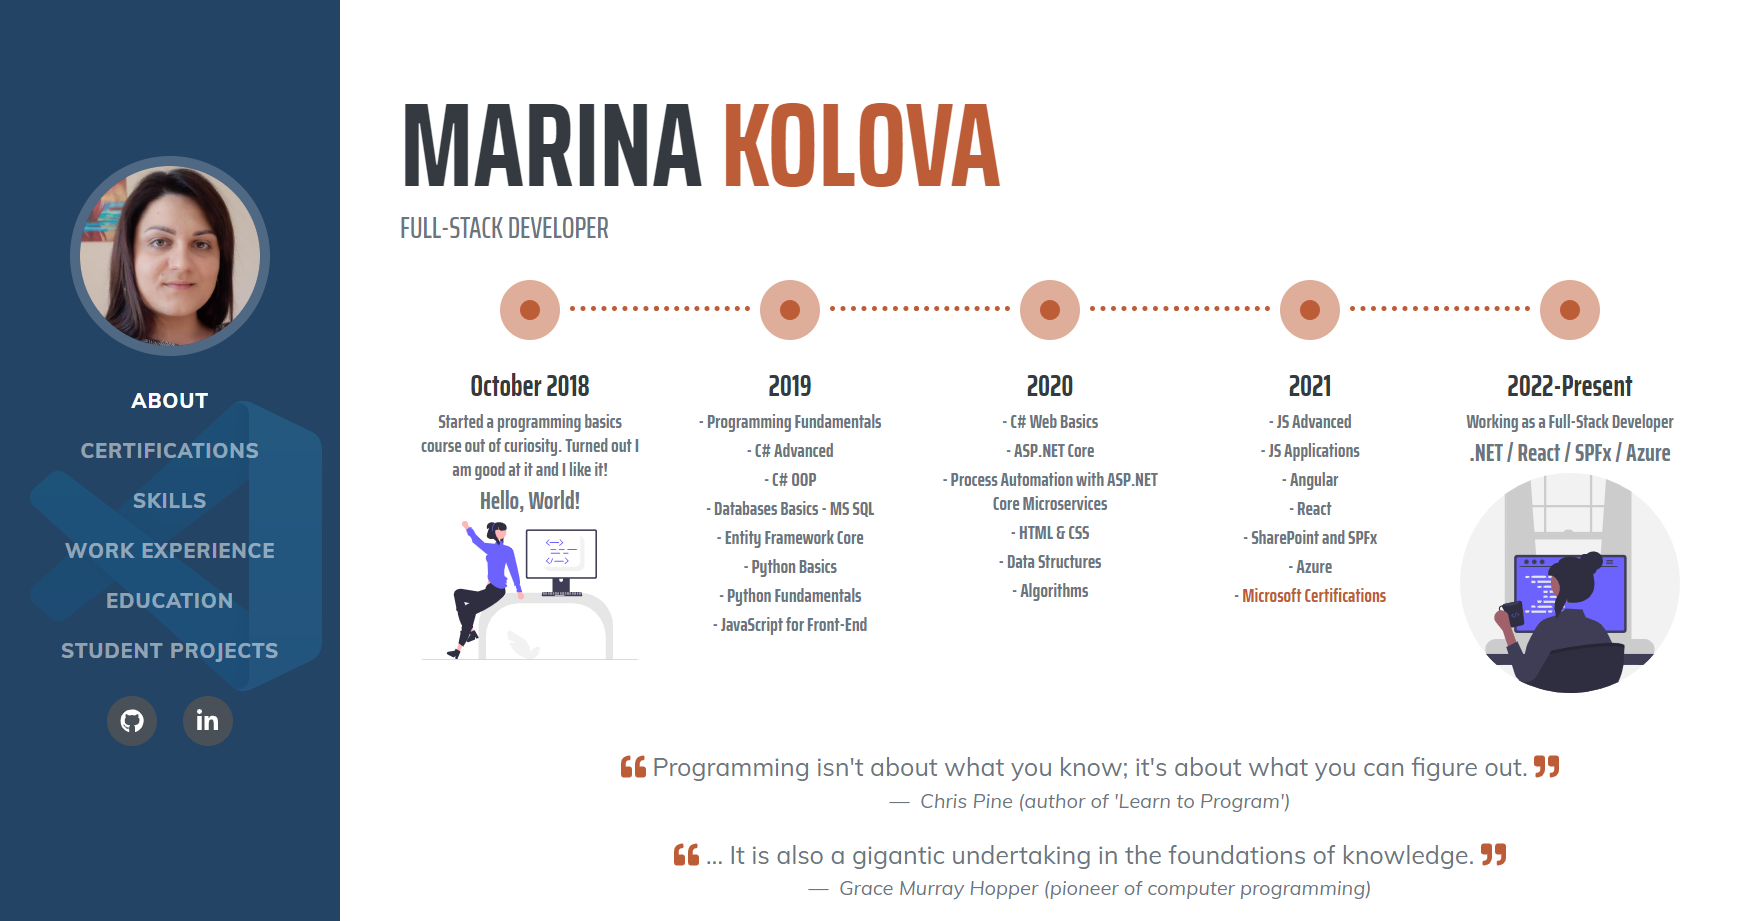
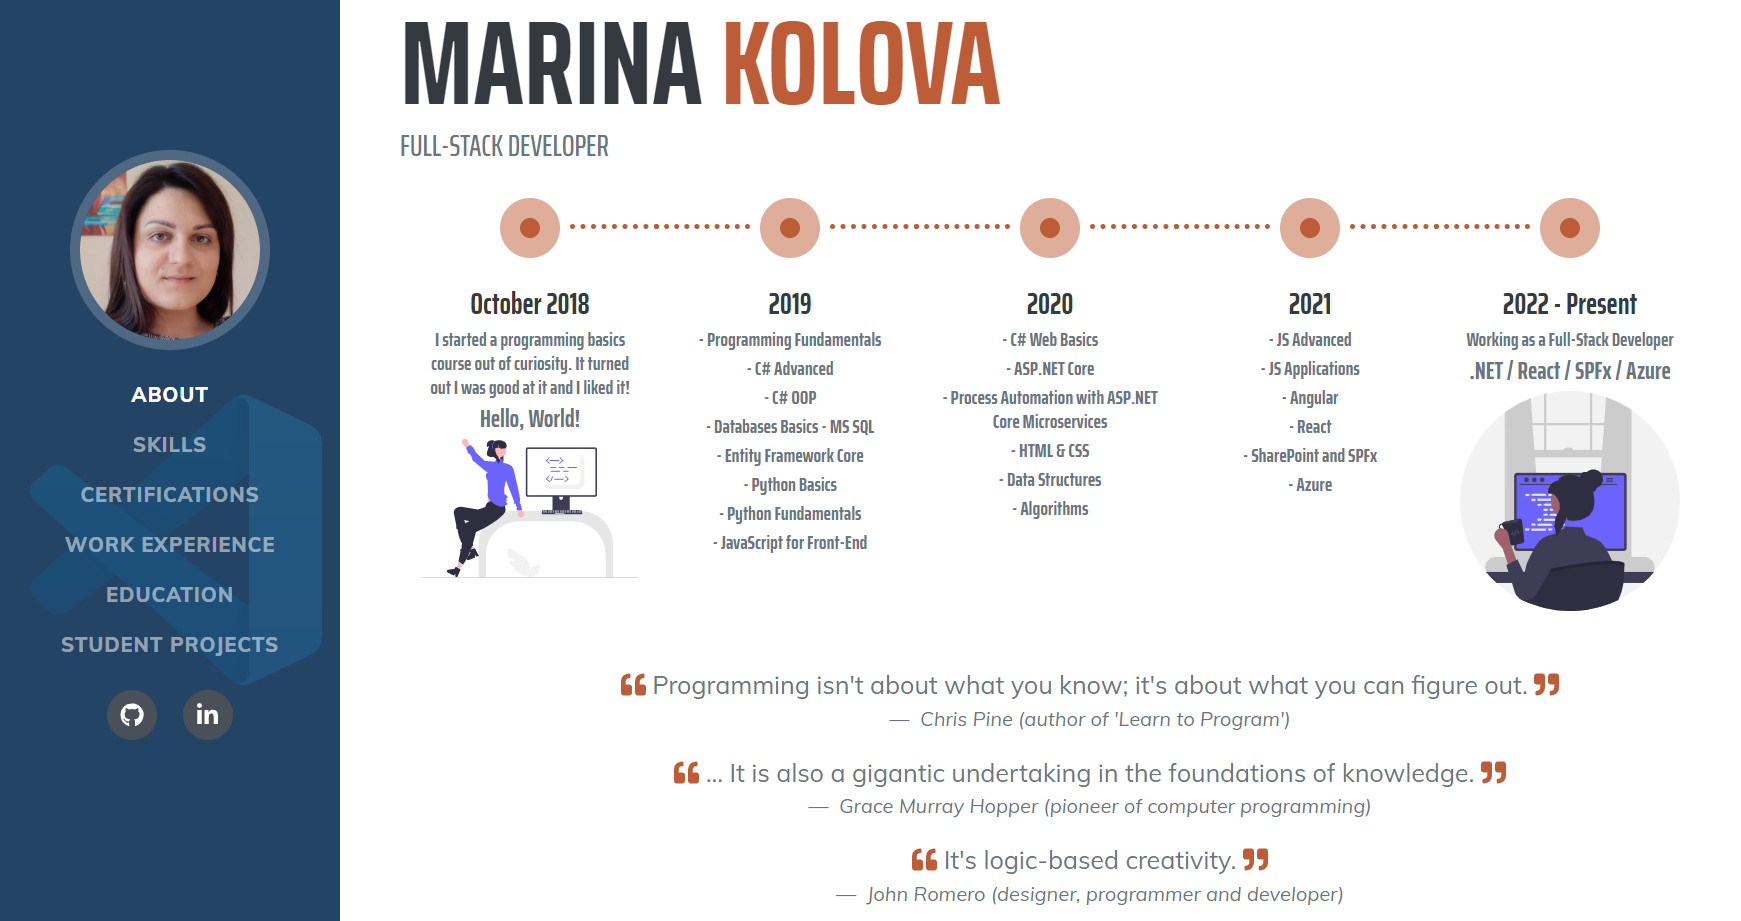
Add AZ-204 certification. Reorder sections.

diff --git a/docs/index.html b/docs/index.html
@@ -49,10 +49,10 @@
                     <a class="nav-link js-scroll-trigger" href="#about">About</a>
                 </li>
                 <li class="nav-item">
-                    <a class="nav-link js-scroll-trigger" href="#certifications">Certifications</a>
+                    <a class="nav-link js-scroll-trigger" href="#skills">Skills</a>
                 </li>
                 <li class="nav-item">
-                    <a class="nav-link js-scroll-trigger" href="#skills">Skills</a>
+                    <a class="nav-link js-scroll-trigger" href="#certifications">Certifications</a>
                 </li>
                 <li class="nav-item">
                     <a class="nav-link js-scroll-trigger" href="#experience">Work Experience</a>
@@ -103,8 +103,8 @@
                                     data-placement="top">
                                     <div class="inner-circle"></div>
                                     <p class="h4 mt-3 mb-1">October 2018</p>
-                                    <p class="h6 text-muted mb-1 mb-lg-1">Started a programming basics course out of
-                                        curiosity. It turned out I was good at it and liked it!</p>
+                                    <p class="h6 text-muted mb-1 mb-lg-1">I started a programming basics course out of
+                                        curiosity. It turned out I was good at it and I liked it!</p>
                                     <p class="h5 text-muted mb-1 mb-lg-1">Hello, World!</p>
                                     <img src="img/undraw_proud_coder_re_exuy.svg" class="card-img mb-1 mb-lg-1"
                                         alt="Hello Programming">
@@ -150,15 +150,13 @@
                                     <p class="h6 text-muted mb-1 mb-lg-1">- React</p>
                                     <p class="h6 text-muted mb-1 mb-lg-1">- SharePoint and SPFx</p>
                                     <p class="h6 text-muted mb-1 mb-lg-1">- Azure</p>
-                                    <p class="h6 text-muted mb-1 mb-lg-1">- <a href="#certifications">Microsoft
-                                        Certifications</a></p>
                                 </div>
                             </div>
                             <div class="timeline-step">
                                 <div class="timeline-content" data-toggle="popover" data-trigger="hover"
                                     data-placement="top">
                                     <div class="inner-circle"></div>
-                                    <p class="h4 mt-3 mb-1">2022-Present</p>
+                                    <p class="h4 mt-3 mb-1">2022 - Present</p>
                                     <p class="h6 text-muted mb-1 mb-lg-1">Working as a Full-Stack Developer</p>
                                     <p class="h5 text-muted mb-1 mb-lg-1">.NET / React / SPFx / Azure</p>
                                     <img src="img/undraw_programmer_re_owql.svg" class="card-img mb-1 mb-lg-1"
@@ -199,6 +197,62 @@
         </section>
         <hr class="m-0" />
 
+        <!-- Skills-->
+        <section class="resume-section" id="skills">
+            <div class="resume-section-content">
+                <h2 class="mb-5">Skills</h2>
+                <div class="subheading mb-3">Programming Languages & Tools</div>
+                <ul class="list-inline dev-icons">
+                    <li class="list-inline-item"><i class="devicon-csharp-plain-wordmark colored"></i></li>
+                    <li class="list-inline-item"><i class="devicon-dot-net-plain-wordmark colored"></i></li>
+                    <li class="list-inline-item"><i class="devicon-dotnetcore-plain colored"></i></li>
+                    <li class="list-inline-item"><i class="devicon-microsoftsqlserver-plain-wordmark colored"></i></li>
+                    <li class="list-inline-item"><i class="devicon-azure-plain-wordmark colored"></i></li>
+                    <li class="list-inline-item"><i class="devicon-react-original-wordmark colored"></i></li>
+                    <li class="list-inline-item"><i class="devicon-javascript-plain colored"></i></li>
+                    <li class="list-inline-item"><i class="devicon-typescript-plain colored"></i></li>
+                    <li class="list-inline-item"><i class="devicon-html5-plain-wordmark colored"></i></li>
+                    <li class="list-inline-item"><i class="devicon-css3-plain-wordmark colored"></i></li>
+                    <li class="list-inline-item"><i class="devicon-sass-original colored"></i></li>
+                    <li class="list-inline-item"><i class="devicon-git-plain-wordmark colored"></i></li>
+                </ul>
+                <!--
+                <ul class="list-inline dev-icons">
+                    <li class="list-inline-item"><i class="devicon-bootstrap-plain-wordmark colored"></i></li>
+                    <li class="list-inline-item"><i class="devicon-python-plain-wordmark colored"></i></li>
+                    <li class="list-inline-item"><i class="devicon-angularjs-plain colored"></i></li>
+                    <li class="list-inline-item"><i class="devicon-handlebars-plain-wordmark colored"></i></li>
+                    <li class="list-inline-item"><i class="devicon-visualstudio-plain colored"></i></li>
+                    <li class="list-inline-item"><i class="devicon-vscode-plain colored"></i></li>
+                    <li class="list-inline-item"><i class="devicon-tortoisegit-line colored"></i></li>
+                    <li class="list-inline-item"><i class="devicon-npm-original-wordmark colored"></i></li>
+                    <li class="list-inline-item"><i class="devicon-gulp-plain colored"></i></li>
+                    <li class="list-inline-item"><i class="devicon-docker-plain-wordmark colored"></i></li>
+                    <li class="list-inline-item"><i class="devicon-kubernetes-plain-wordmark colored"></i></li>
+                    <li class="list-inline-item"><i class="devicon-jenkins-line colored"></i></li>
+                    <li class="list-inline-item"><i class="devicon-nuget-original"></i></li>
+                </ul>
+                -->
+
+                <div class="subheading mb-3 mt-5">Personal Skills</div>
+                <ul class="fa-ul mb-0">
+                    <li>
+                        <i class="fa-li fa fa-arrow-right"></i> Algorithmic Thinking
+                    </li>
+                    <li>
+                        <i class="fa-li fa fa-arrow-right"></i> Problem Solving
+                    </li>
+                    <li>
+                        <i class="fa-li fa fa-arrow-right"></i> Communication
+                    </li>
+                    <li>
+                        <i class="fa-li fa fa-arrow-right"></i> Teamwork
+                    </li>
+                </ul>
+            </div>
+        </section>
+        <hr class="m-0" />
+
         <!-- Certifications-->
         <section class="resume-section" id="certifications">
             <div class="resume-section-content">
@@ -210,6 +264,13 @@
                     </div>
                     <div class="col-sm-10 col-lg-11">
                         <ul class="fa-ul mb-4">
+                            <li class="mb-2 mt-2">
+                                <span class="fa-li"><i class="fas fa-trophy text-warning"></i> </span>
+                                <a href="https://learn.microsoft.com/api/credentials/share/en-us/MarinaKolova-3690/753C26734F61BFC0?sharingId=3148FBA42BD6DCA"
+                                    target="blank">
+                                    Microsoft Certified: Azure Developer Associate</a> -
+                                Issued June 2024
+                            </li>
                             <li class="mb-2 mt-2">
                                 <span class="fa-li"><i class="fas fa-trophy text-warning"></i> </span>
                                 <a href="https://learn.microsoft.com/api/credentials/share/en-us/MarinaKolova-3690/C51B3EB2833F81F4?sharingId=3148FBA42BD6DCA"
@@ -401,62 +462,6 @@
                     </div>
                 </div>
 
-            </div>
-        </section>
-        <hr class="m-0" />
-
-        <!-- Skills-->
-        <section class="resume-section" id="skills">
-            <div class="resume-section-content">
-                <h2 class="mb-5">Skills</h2>
-                <div class="subheading mb-3">Programming Languages & Tools</div>
-                <ul class="list-inline dev-icons">
-                    <li class="list-inline-item"><i class="devicon-csharp-plain-wordmark colored"></i></li>
-                    <li class="list-inline-item"><i class="devicon-dot-net-plain-wordmark colored"></i></li>
-                    <li class="list-inline-item"><i class="devicon-dotnetcore-plain colored"></i></li>
-                    <li class="list-inline-item"><i class="devicon-microsoftsqlserver-plain-wordmark colored"></i></li>
-                    <li class="list-inline-item"><i class="devicon-azure-plain-wordmark colored"></i></li>
-                    <li class="list-inline-item"><i class="devicon-react-original-wordmark colored"></i></li>
-                    <li class="list-inline-item"><i class="devicon-javascript-plain colored"></i></li>
-                    <li class="list-inline-item"><i class="devicon-typescript-plain colored"></i></li>
-                    <li class="list-inline-item"><i class="devicon-html5-plain-wordmark colored"></i></li>
-                    <li class="list-inline-item"><i class="devicon-css3-plain-wordmark colored"></i></li>
-                    <li class="list-inline-item"><i class="devicon-sass-original colored"></i></li>
-                    <li class="list-inline-item"><i class="devicon-git-plain-wordmark colored"></i></li>
-                </ul>
-                <!--
-                <ul class="list-inline dev-icons">
-                    <li class="list-inline-item"><i class="devicon-bootstrap-plain-wordmark colored"></i></li>
-                    <li class="list-inline-item"><i class="devicon-python-plain-wordmark colored"></i></li>
-                    <li class="list-inline-item"><i class="devicon-angularjs-plain colored"></i></li>
-                    <li class="list-inline-item"><i class="devicon-handlebars-plain-wordmark colored"></i></li>
-                    <li class="list-inline-item"><i class="devicon-visualstudio-plain colored"></i></li>
-                    <li class="list-inline-item"><i class="devicon-vscode-plain colored"></i></li>
-                    <li class="list-inline-item"><i class="devicon-tortoisegit-line colored"></i></li>
-                    <li class="list-inline-item"><i class="devicon-npm-original-wordmark colored"></i></li>
-                    <li class="list-inline-item"><i class="devicon-gulp-plain colored"></i></li>
-                    <li class="list-inline-item"><i class="devicon-docker-plain-wordmark colored"></i></li>
-                    <li class="list-inline-item"><i class="devicon-kubernetes-plain-wordmark colored"></i></li>
-                    <li class="list-inline-item"><i class="devicon-jenkins-line colored"></i></li>
-                    <li class="list-inline-item"><i class="devicon-nuget-original"></i></li>
-                </ul>
-                -->
-
-                <div class="subheading mb-3 mt-5">Personal Skills</div>
-                <ul class="fa-ul mb-0">
-                    <li>
-                        <i class="fa-li fa fa-arrow-right"></i> Algorithmic Thinking
-                    </li>
-                    <li>
-                        <i class="fa-li fa fa-arrow-right"></i> Problem Solving
-                    </li>
-                    <li>
-                        <i class="fa-li fa fa-arrow-right"></i> Communication
-                    </li>
-                    <li>
-                        <i class="fa-li fa fa-arrow-right"></i> Teamwork
-                    </li>
-                </ul>
             </div>
         </section>
         <hr class="m-0" />
